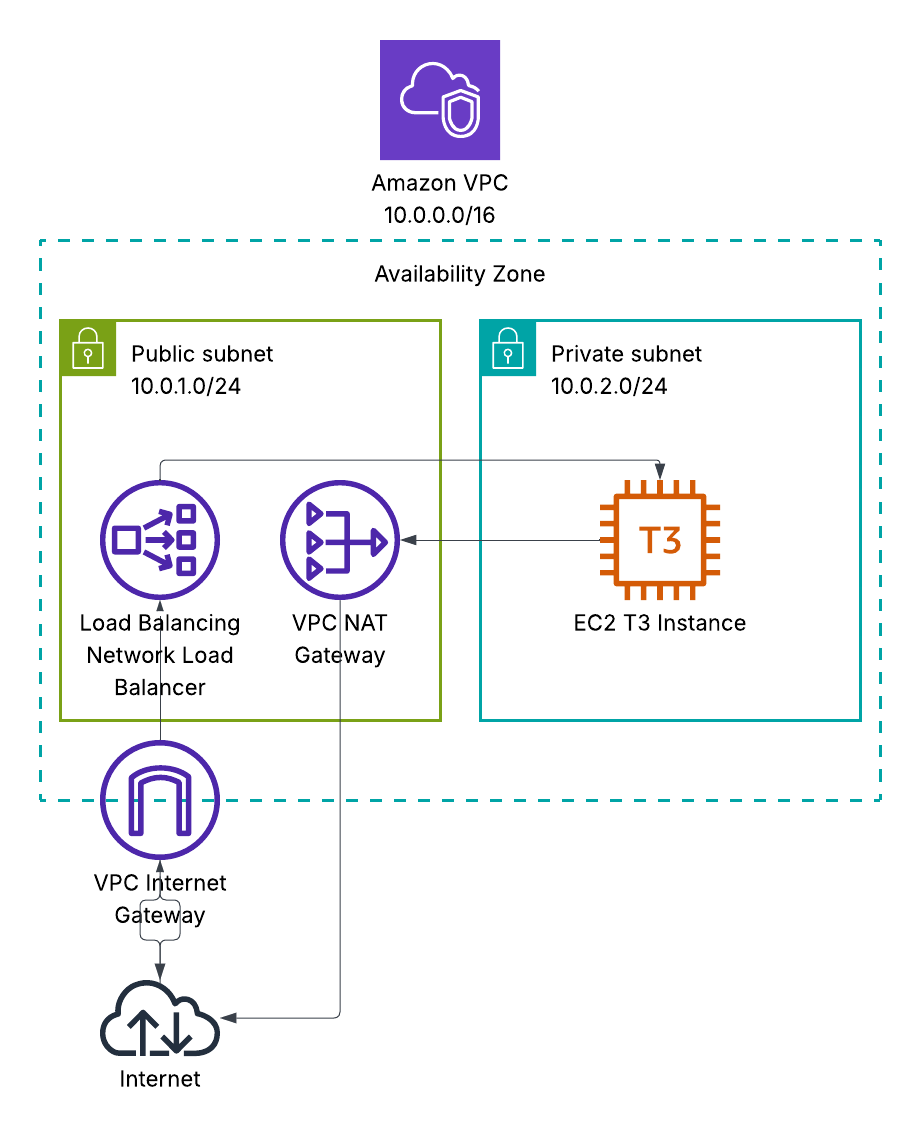
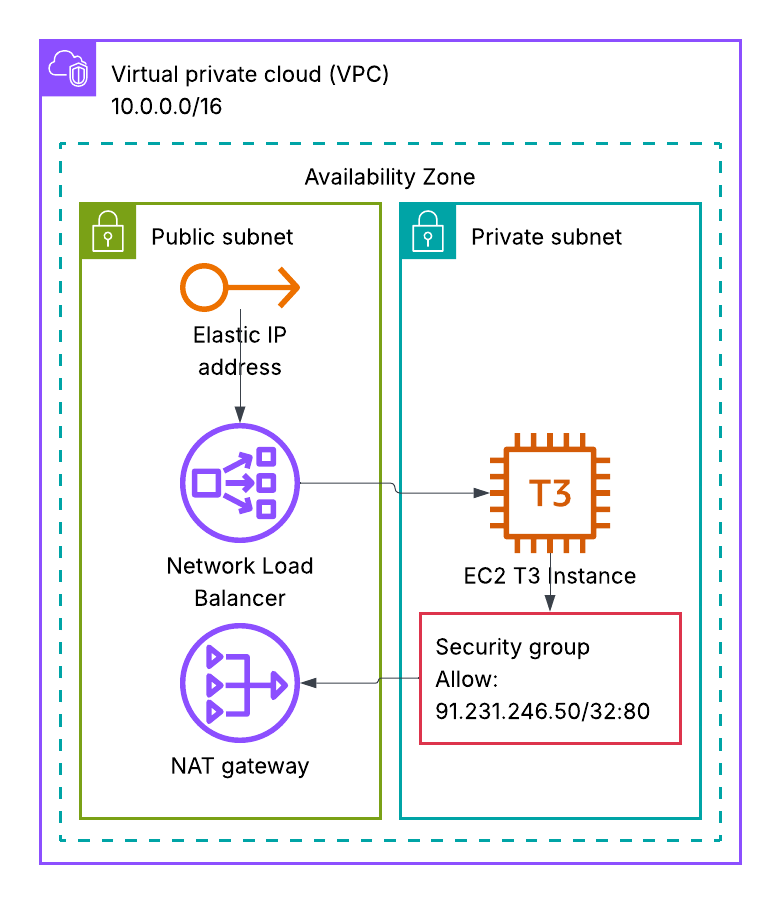
ARCHITECTURE Updates

Changed region(s): [[0.0308, 0.031, 0.9538, 0.9612]]

diff --git a/README.md b/README.md
@@ -8,9 +8,9 @@
 
 | Component | Details | Location |
 |-----------|---------|----------|
-| **NLB** | Network Load Balancer on port 80 | Public Subnet |
+| **NLB** | Network Load Balancer on port 80 with fixed Elastic IP (VIP) | Public Subnet |
 | **EC2** | Apache web server (Amazon Linux 2) | Private Subnet |
-| **Security** | Only 91.231.246.50 can access NLB | NLB Security Group |
+| **Security** | Only 91.231.246.50 can access the web server | EC2 Security Group |
 | **NAT Gateway** | Enables EC2 outbound internet access | Public Subnet |
 | **IGW** | Internet Gateway for internet connectivity | VPC |
 
@@ -26,12 +26,17 @@ terraform apply -var="public_key=$(cat ~/.ssh/id_rsa.pub)"
 
 From 91.231.246.50:
 ```bash
-curl http://<nlb-dns>
+# Using fixed Elastic IP (recommended)
+curl http://$(terraform output -raw nlb_public_ip)
+
+# Or using DNS
+curl http://$(terraform output -raw nlb_dns)
 ```
 
-Get the NLB DNS:
+Get the NLB endpoints:
 ```bash
-terraform output nlb_dns
+terraform output nlb_public_ip  # Fixed Elastic IP (VIP)
+terraform output nlb_dns        # DNS name
 ```
 
 ## Cleanup
